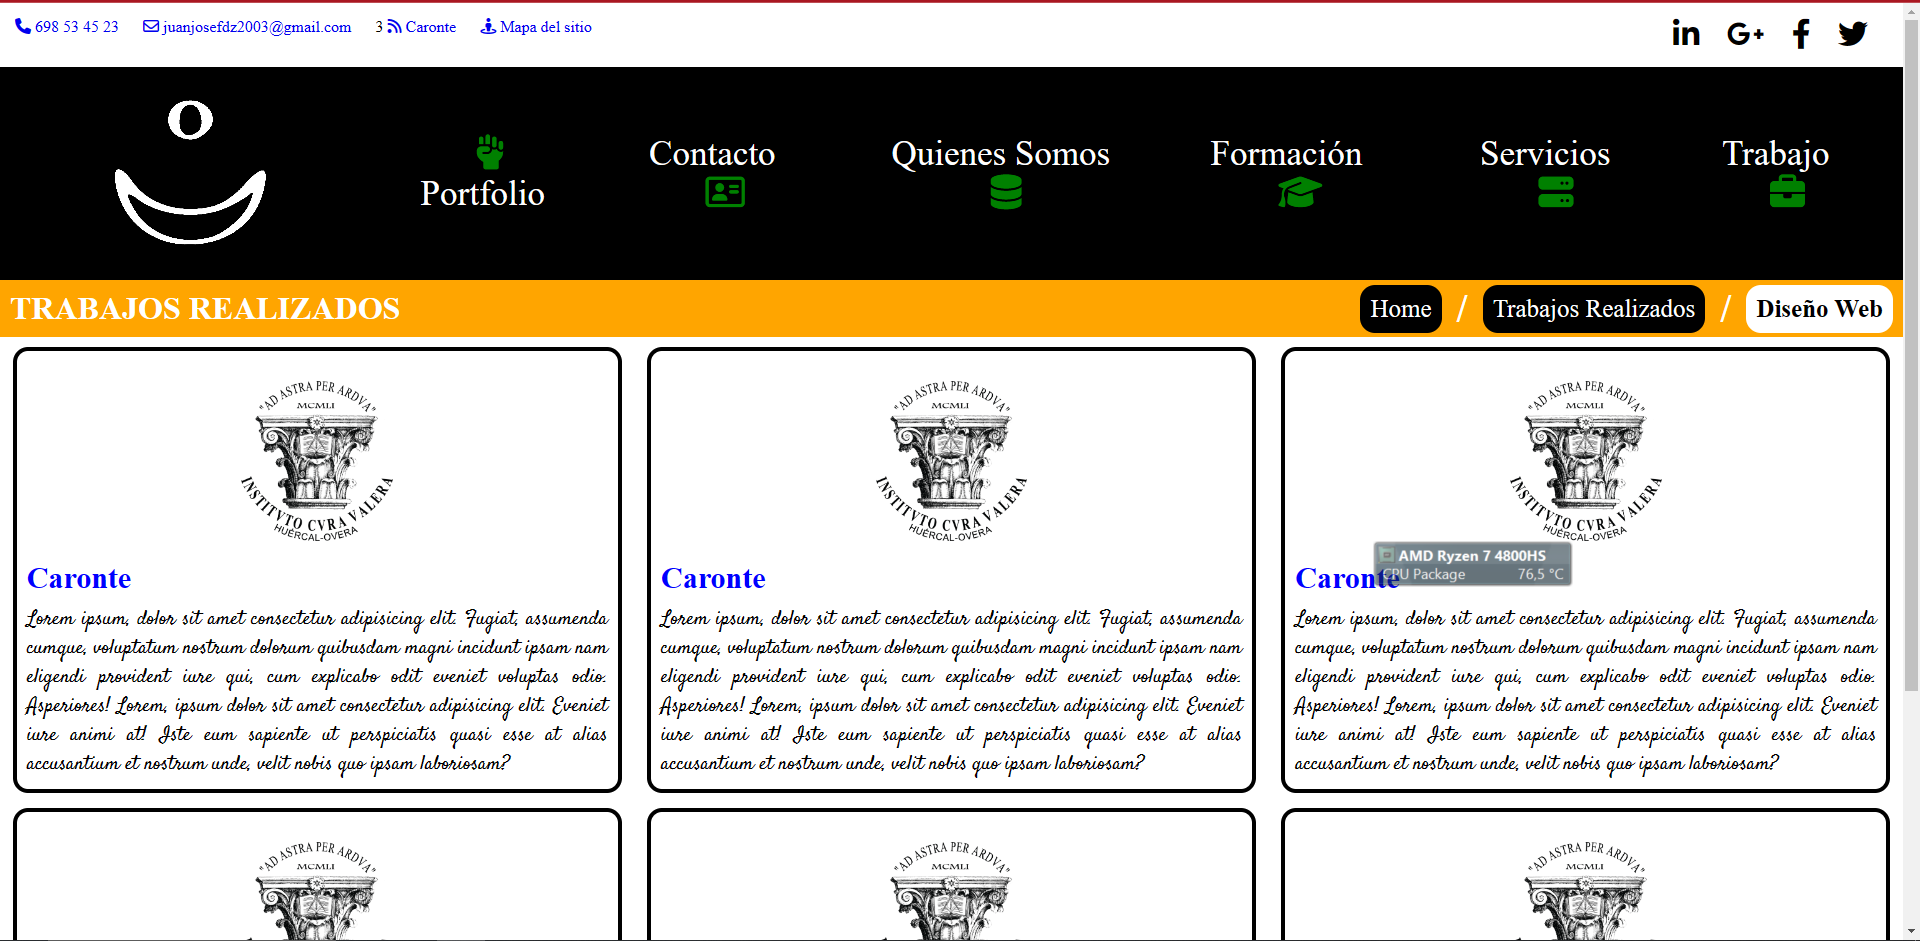
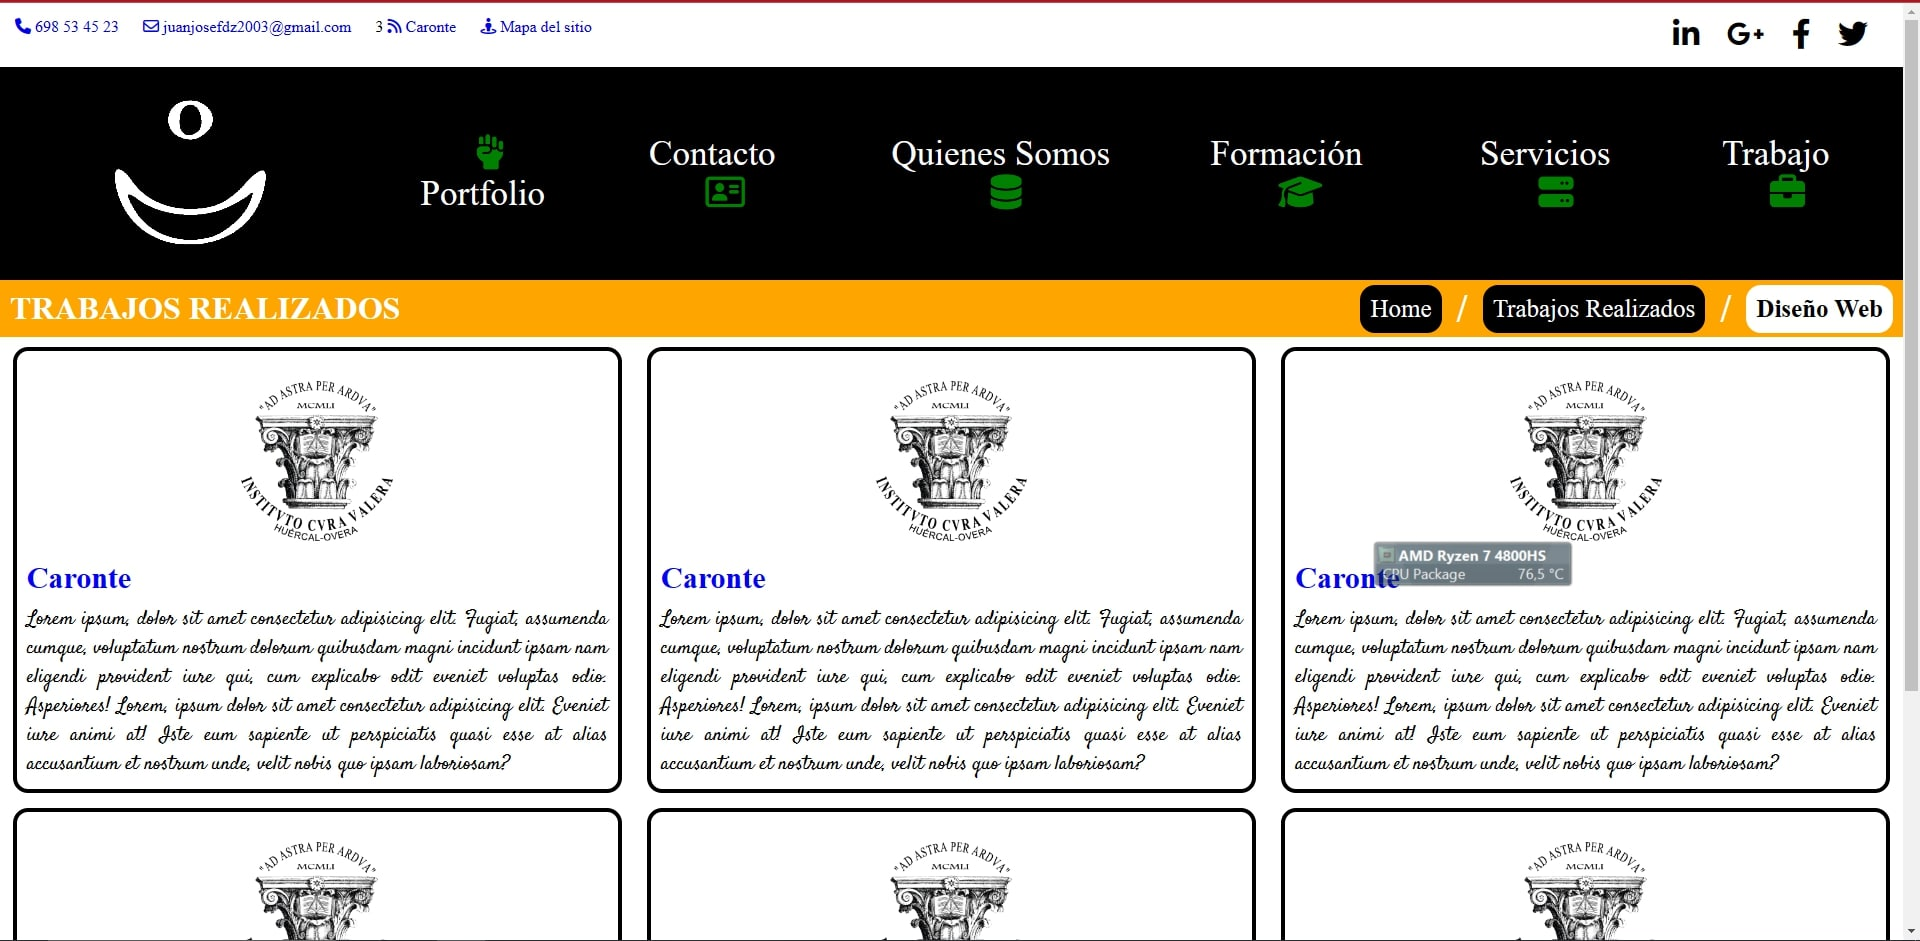
vercel

diff --git a/src/pages/Servicios/Web.tsx b/src/pages/Servicios/Web.tsx
@@ -1,5 +1,5 @@
 import React from 'react'
-import caronte from 'https://juanfer.vercel.app/assets/caronte.jpg'
+import caronte from './../../assets/caronte.jpg'
 
 export const Web = () => {
   return (
